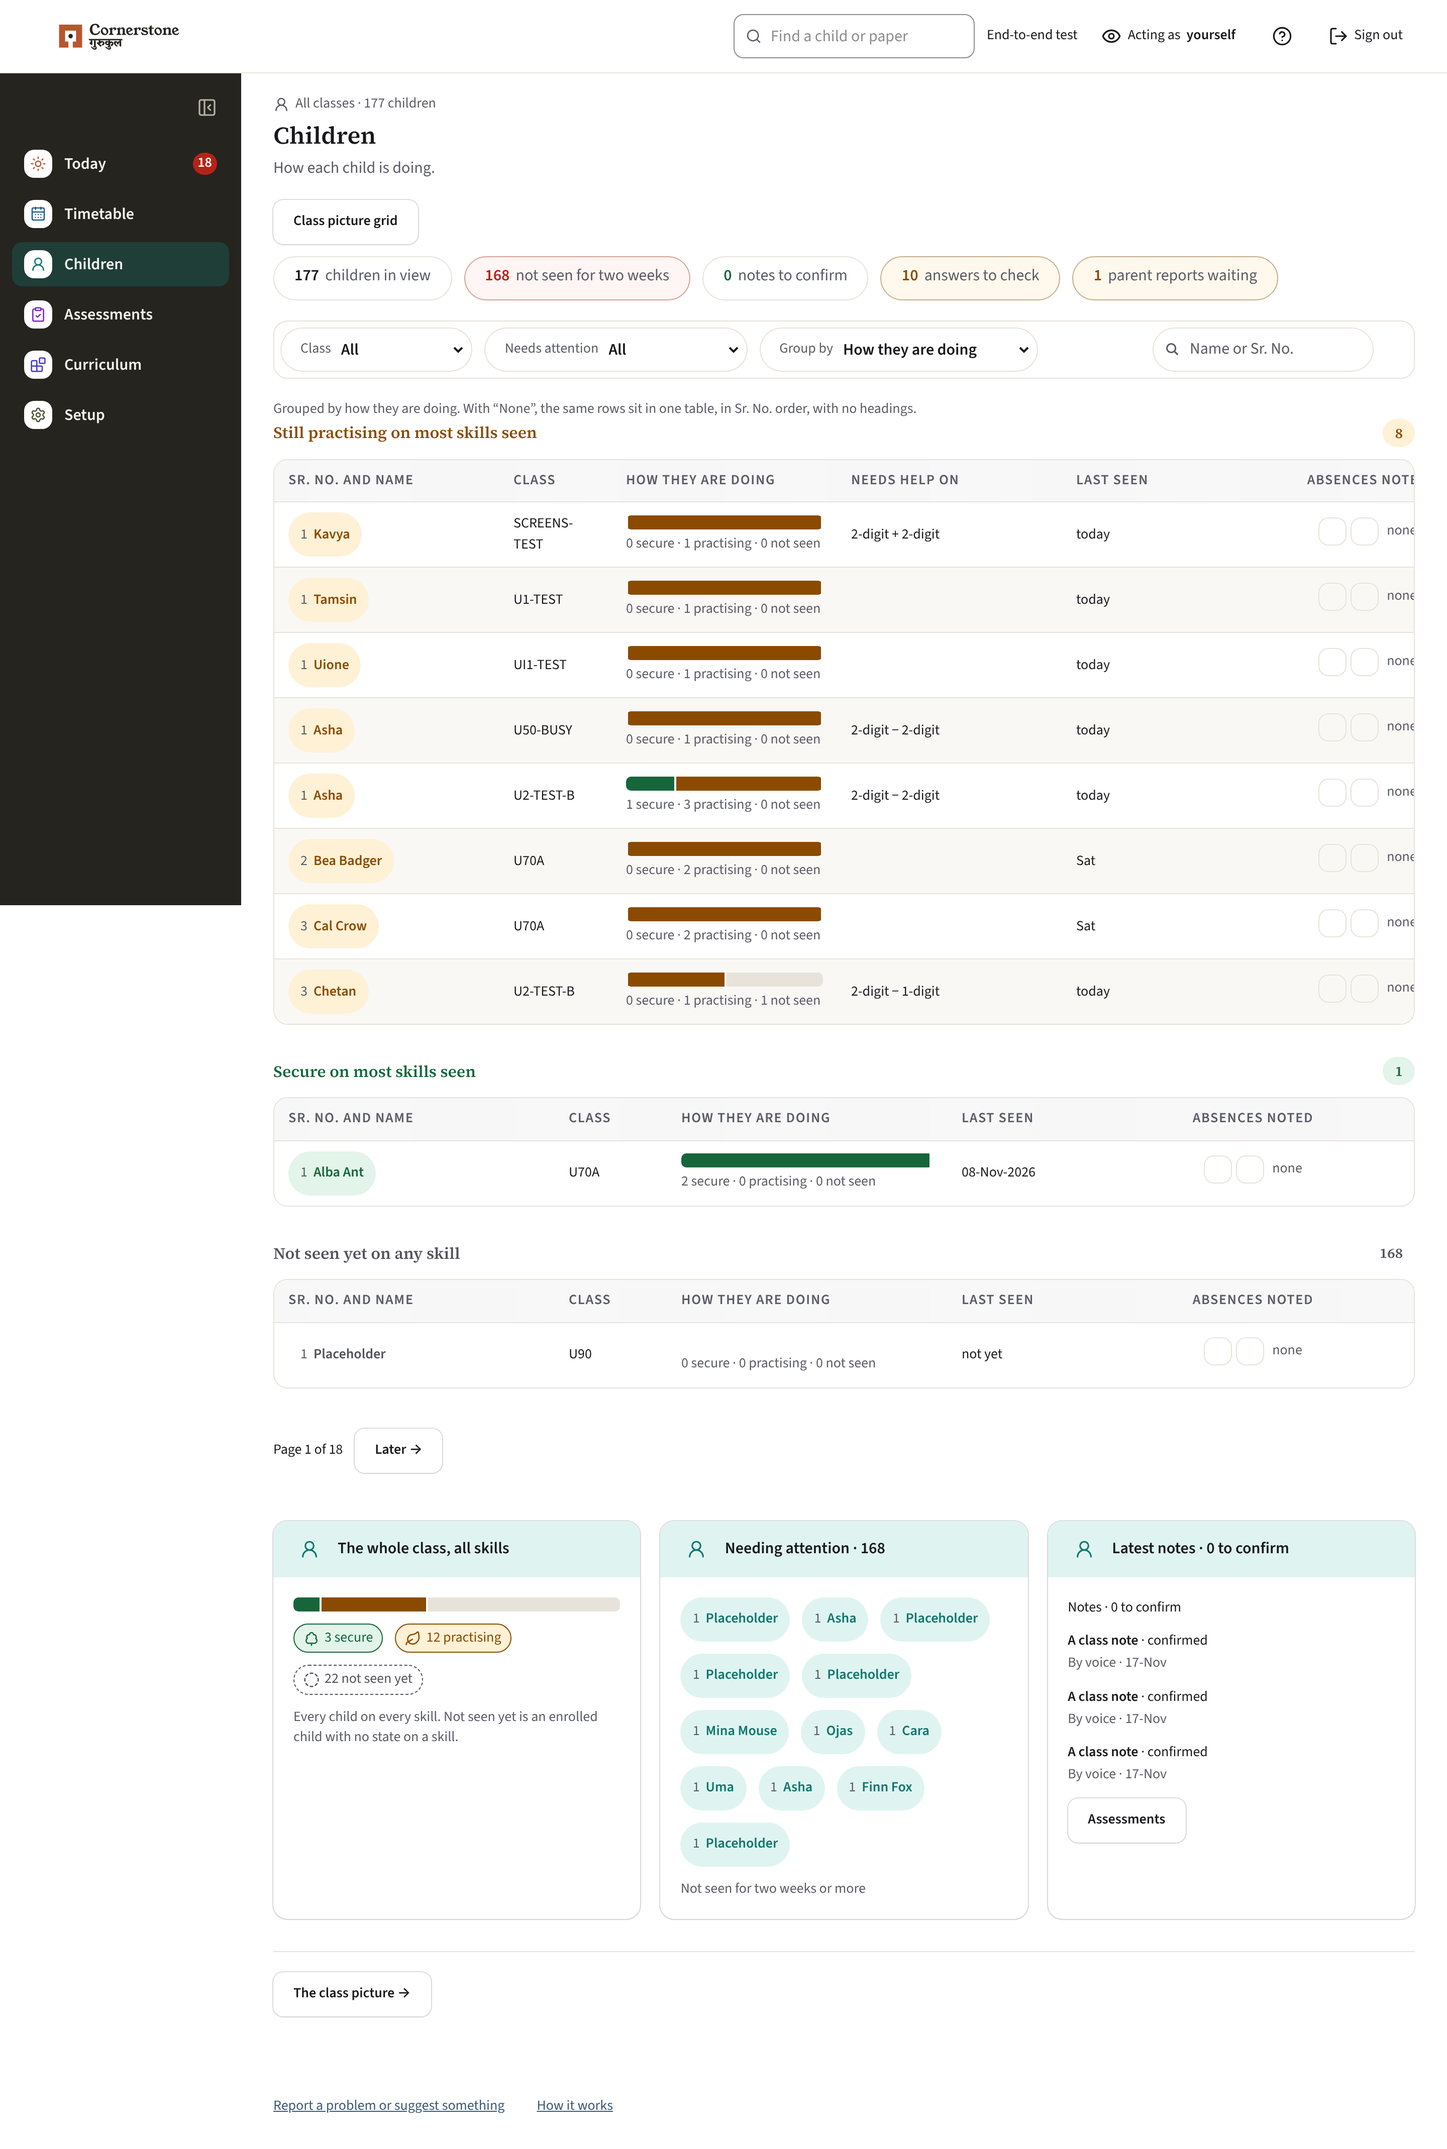
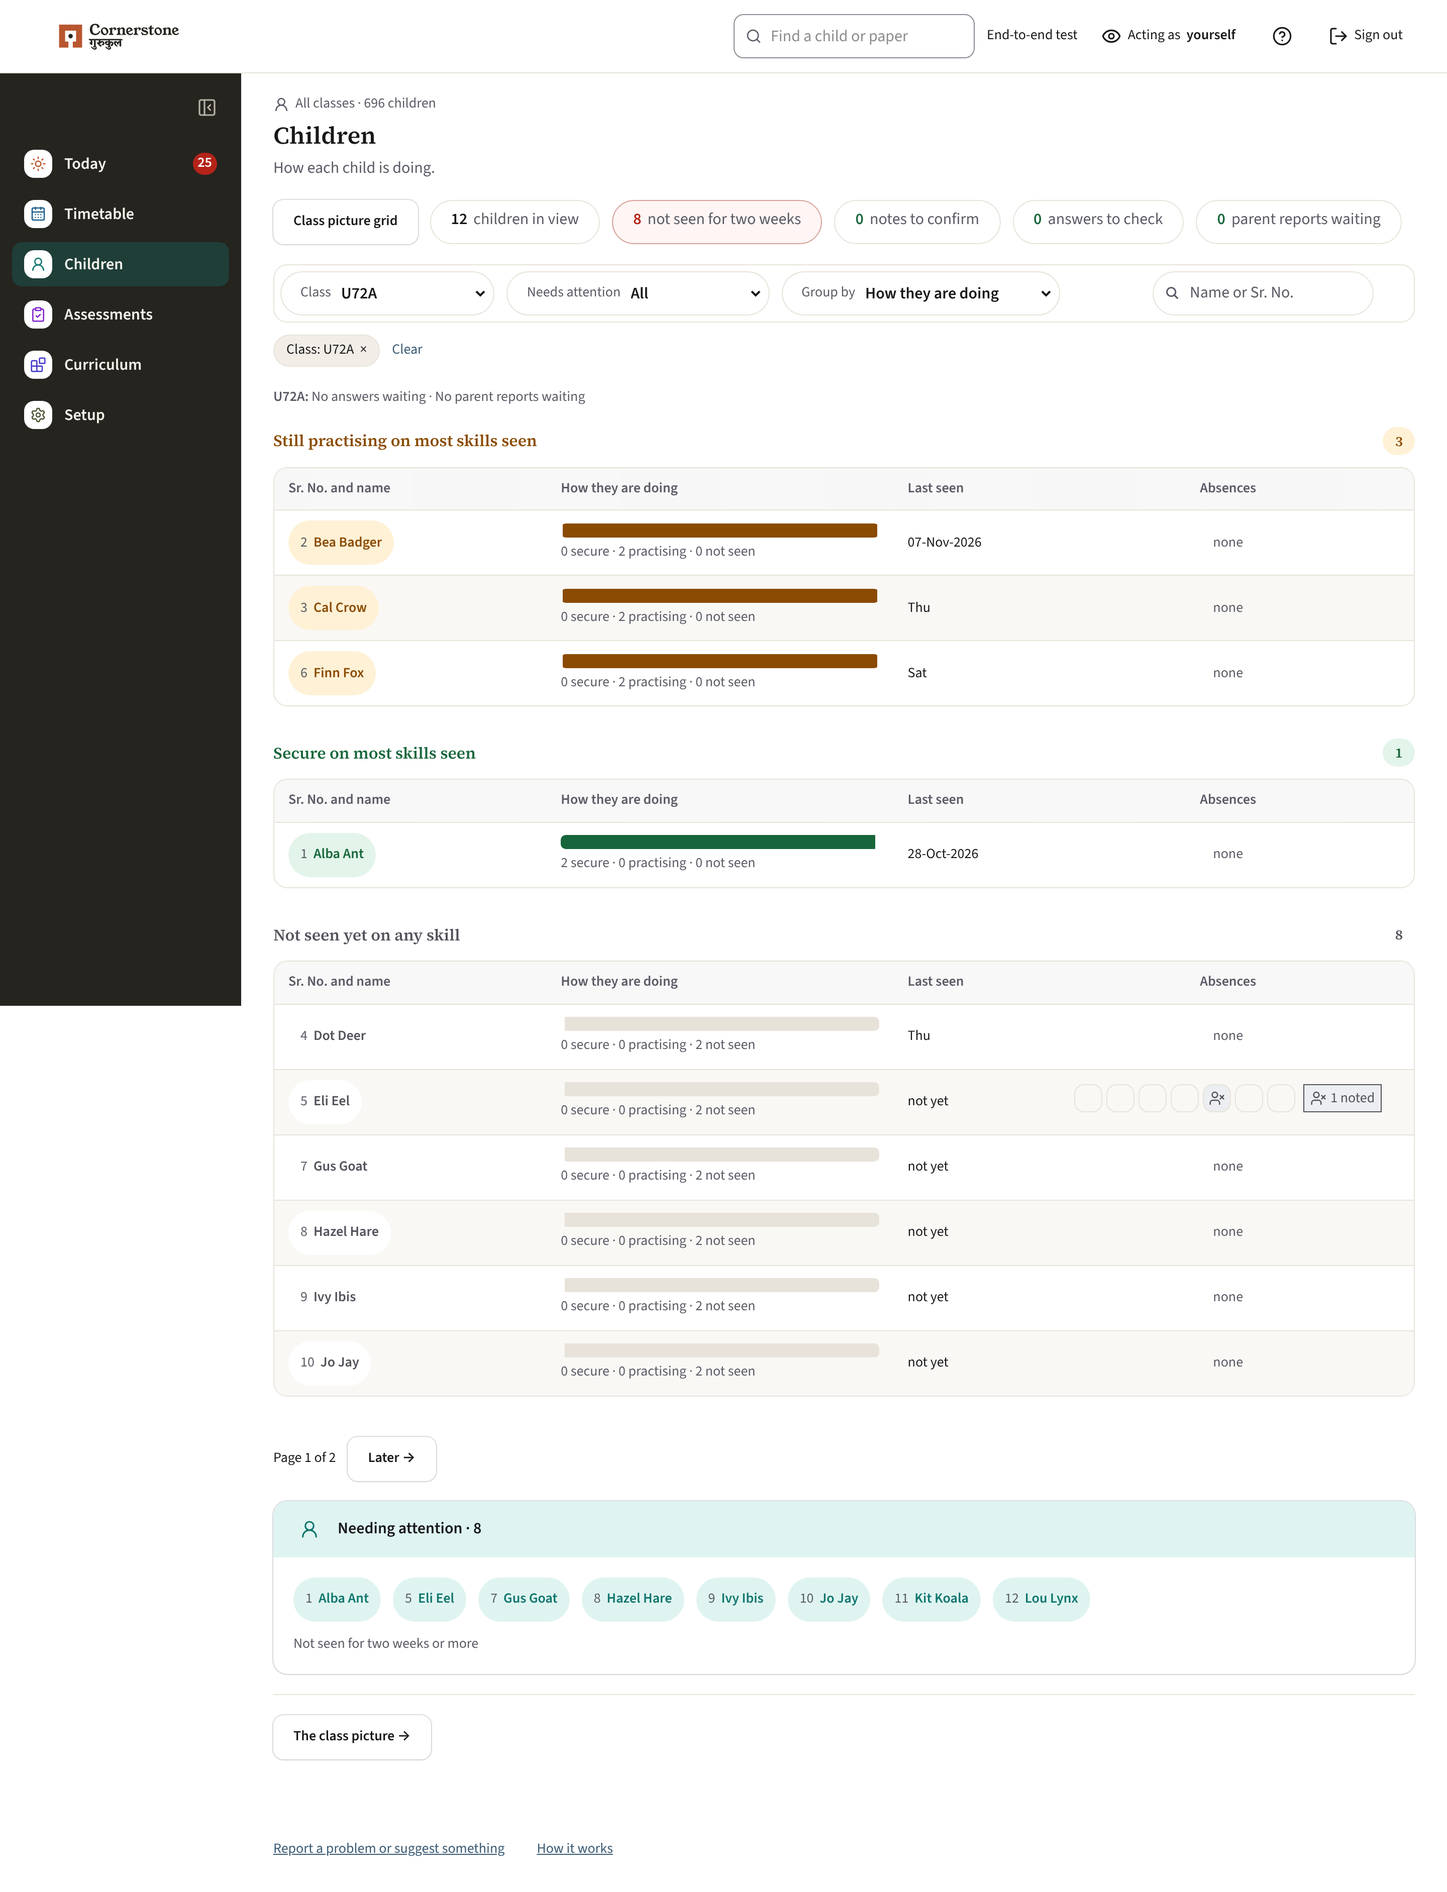
CP-65 F: Children reads the attendance register for Last seen and Absences, one set of column widths; Assessments lanes even; redirects for the folded pages; screenshots
Claude-Session: https://claude.ai/code/session_01KEBF29RtGvE2MZTynqvF6x

diff --git a/apps/web/tests/u95-to-approve.spec.ts b/apps/web/tests/u95-to-approve.spec.ts
@@ -50,25 +50,25 @@ test.afterAll(async () => {
 });
 
 test("1 · Curriculum's Approval filter: to approve is the machine's, approved the sheet's", async ({ page }) => {
-  await page.goto("/setup/curriculum?q=U94&approval=toApprove");
+  await page.goto("/setup/curriculum?view=appendix&q=U94&approval=toApprove");
   await expect(page.locator(`${LIST} tr[data-row="${MACHINE}"]`)).toBeVisible();
   await expect(page.locator(`${LIST} tr[data-row="${SHEET}"]`)).toHaveCount(0);
   await expect(page.locator(`${LIST} tr[data-row="${MACHINE}"]`)).toContainText("to approve");
-  await page.goto("/setup/curriculum?q=U94&approval=approved");
+  await page.goto("/setup/curriculum?view=appendix&q=U94&approval=approved");
   await expect(page.locator(`${LIST} tr[data-row="${SHEET}"]`)).toBeVisible();
   await expect(page.locator(`${LIST} tr[data-row="${MACHINE}"]`)).toHaveCount(0);
   await expect(page.locator('select[name="approval"] option')).toHaveText(["Approved or not", "To approve", "Approved"]);
 });
 
 test("2 · Approve on the panel makes the machine's links a person's, and the activity reads approved", async ({ page }) => {
-  await page.goto(`/setup/curriculum?q=U94&open=activity:${MACHINE}`);
+  await page.goto(`/setup/curriculum?view=appendix&q=U94&open=activity:${MACHINE}`);
   await page.locator("[data-approve]").click();
   await expect(page.locator("[data-approve]")).toHaveCount(0); // nothing of it is the machine's now
   const left = await sql<{ n: number }[]>`
     select (select count(*) from activity_skill where activity_code = ${MACHINE} and source = 'machine')
          + (select count(*) from activity_objective where activity_code = ${MACHINE} and source = 'machine')::int as n`;
   expect(Number(left[0].n)).toBe(0);
-  await page.goto("/setup/curriculum?q=U94&approval=approved");
+  await page.goto("/setup/curriculum?view=appendix&q=U94&approval=approved");
   await expect(page.locator(`${LIST} tr[data-row="${MACHINE}"]`)).toBeVisible();
 });
 
@@ -105,9 +105,9 @@ async function lessonsListed(page: import("@playwright/test").Page) {
 test("5 · CP-52: an activity the machine made for a planner line reads to approve before anything of it is drafted", async ({ page }) => {
   await sql`update activity set source_file = 'machine:plan_author' where code = ${SHEET}`;
   try {
-    await page.goto("/setup/curriculum?q=U94&approval=toApprove");
+    await page.goto("/setup/curriculum?view=appendix&q=U94&approval=toApprove");
     await expect(page.locator(`${LIST} tr[data-row="${SHEET}"]`)).toBeVisible();
-    await page.goto(`/setup/curriculum?q=U94&open=activity:${SHEET}`);
+    await page.goto(`/setup/curriculum?view=appendix&q=U94&open=activity:${SHEET}`);
     await page.locator("[data-approve]").click();
     await expect(page.locator("[data-approve]")).toHaveCount(0);
     const [a] = await sql<{ f: string }[]>`select source_file as f from activity where code = ${SHEET}`;

diff --git a/apps/web/lib/children-reads.ts b/apps/web/lib/children-reads.ts
@@ -64,14 +64,13 @@ export async function childrenTable(me: Me): Promise<Table> {
     select r.class_id, r.on_date::text as date,
            exists (select 1 from session s where s.school_class_id = r.class_id and s.school_day_id = r.id and s.state = 'done') as lesson
     from ranked r where r.n <= ${STRIP_DAYS} order by r.class_id, r.on_date`;
-  const absent = await sql<{ child_id: string; date: string }[]>`
-    select o.child_id, (o.observed_at at time zone ${zone})::date::text as date
-    from activity_observation o
-    where o.child_id = any(${ids}::uuid[]) and o.outcome = 'absent'
-      and not exists (select 1 from activity_observation c where c.supersedes = o.id)`;
+  // the attendance rows (CP-42, the school's own register) are the one source of both "last seen" and "absence noted": a child is
+  // last seen on the latest day marked present, and an absence is a day marked absent or on leave, so the two never disagree
+  const register = await sql<{ child_id: string; date: string; status: string }[]>`
+    select a.child_id, a.on_date::text as date, a.status from attendance a where a.child_id = any(${ids}::uuid[]) and a.on_date <= ${today}::date`;
 
   const daysOf = groupBy(days, (d) => d.class_id);
-  const absentOf = groupBy(absent, (a) => a.child_id);
+  const registerOf = groupBy(register, (a) => a.child_id);
   const statesOf = groupBy(states, (s) => s.child_id);
   // a class is read on its observed rows if any child of it has them, else its written rows; its skills are those anyone was seen on
   const kindOf = new Map<string, string>();
@@ -93,7 +92,8 @@ export async function childrenTable(me: Me): Promise<Table> {
   const old = new Map((await childTable(me.email, null, await workScope(me))).map((r) => [r.id, r]));
   const rows: Row[] = kids.map((k) => {
     const mine = seen(k);
-    const last = mine.map((s) => s.last_seen).filter((d): d is string => d !== null).sort().pop() ?? null;
+    const held = registerOf.get(k.id) ?? [];
+    const last = held.filter((a) => a.status === "present").map((a) => a.date).sort().pop() ?? null;
     return {
       childId: k.id,
       roll: k.roll_no,
@@ -107,7 +107,7 @@ export async function childrenTable(me: Me): Promise<Table> {
       lastSeen: last,
       waiting: waiting.has(k.class_id) ? (waiting.get(k.class_id)!.get(k.id) ?? 0) : null,
       helpOn: old.get(k.id)?.help?.name ?? null,
-      strip: stripOf(daysOf.get(k.class_id) ?? [], new Set((absentOf.get(k.id) ?? []).map((a) => a.date))),
+      strip: stripOf(daysOf.get(k.class_id) ?? [], new Set(held.filter((a) => a.status !== "present").map((a) => a.date))),
     };
   });
   const classes = [...new Map(kids.map((k) => [k.class_id, k.section])).entries()].map(([id, section]) => ({ id, section })).sort((a, b) => a.section.localeCompare(b.section, "en", { numeric: true }));

diff --git a/apps/web/components/children/children-table.tsx b/apps/web/components/children/children-table.tsx
@@ -61,14 +61,15 @@ export function Strip({ r }: { r: Row }) {
 function columns(showClass: boolean, today: string): Column<Row>[] {
   const name = (r: Row) => ({ classId: r.classId, roll: r.roll, name: r.name, section: r.section, counts: r.counts });
   return [
-    { key: "who", label: "Sr. No. and name", keep: true, value: (r) => `${r.roll} ${r.name}`, cell: (r) => <PeekChip child={name(r)} /> },
-    ...(showClass ? [{ key: "class", label: "Class", keep: true, width: "7rem", value: (r: Row) => r.section } satisfies Column<Row>] : []),
-    { key: "doing", label: "How they are doing", keep: true, value: (r) => countWords(r.counts), cell: (r) => <Bar c={r.counts} /> },
-    { key: "help", label: "Needs help on", value: (r) => r.helpOn, cell: (r) => (r.helpOn ? <span>{r.helpOn}</span> : null) },
-    { key: "seen", label: "Last seen", keep: true, width: "9rem", value: (r) => lastSeenWords(r.lastSeen, today) },
-    { key: "waiting", label: "Notes waiting", status: true, value: (r) => r.waiting, cell: (r) => <Waiting n={r.waiting} /> },
+    { key: "who", label: "Sr. No. and name", keep: true, width: "11rem", value: (r) => `${r.roll} ${r.name}`, cell: (r) => <PeekChip child={name(r)} /> },
+    ...(showClass ? [{ key: "class", label: "Class", keep: true, width: "6rem", value: (r: Row) => r.section } satisfies Column<Row>] : []),
+    { key: "doing", label: "How they are doing", keep: true, width: "14rem", value: (r) => countWords(r.counts), cell: (r) => <Bar c={r.counts} /> },
+    { key: "help", label: "Needs help on", width: "11rem", value: (r) => r.helpOn, cell: (r) => (r.helpOn ? <span>{r.helpOn}</span> : null) },
+    { key: "waiting", label: "Notes waiting", status: true, width: "8rem", value: (r) => r.waiting, cell: (r) => <Waiting n={r.waiting} /> },
+    // last seen and absences noted both come from the attendance rows, and sit side by side so they are read as one
+    { key: "seen", label: "Last seen", keep: true, width: "6rem", value: (r) => lastSeenWords(r.lastSeen, today) },
     // the strip is seven 28 px days and a chip: a fixed width, or an equal share of the free width cuts it (14 Nov 2026)
-    { key: "absences", label: "Absences", keep: true, status: true, width: "16rem", value: (r) => noted(r.strip), cell: (r) => <Strip r={r} /> },
+    { key: "absences", label: "Absences", keep: true, status: true, width: "15rem", value: (r) => noted(r.strip), cell: (r) => <Strip r={r} /> },
   ];
 }
 

diff --git a/apps/web/tests/u72-children.spec.ts b/apps/web/tests/u72-children.spec.ts
@@ -80,6 +80,20 @@ test("5 · absences noted: a grey cell with its word, a day with no lesson blank
   await expect(page.getByText("1 noted")).toBeVisible();
 });
 
+test("5b · Last seen and Absences noted both read the attendance register, so they agree", async ({ page }) => {
+  await page.goto(`/children?cls=${classA}`);
+  const row = (n: number) => tableOf(page).locator("tr", { has: page.getByRole("button", { name: new RegExp(NAMES_A[n]) }) });
+  // marked absent two days ago and never present: not seen yet, one absence noted
+  await expect(row(4)).toContainText("not yet");
+  await expect(row(4)).toContainText("1 noted");
+  // marked present on the day of each visit: a date, and no absence beside it
+  await expect(row(0)).not.toContainText("not yet");
+  await expect(row(0)).toContainText("none");
+  // the columns of every group are the same widths, so the groups line up
+  const widths = await page.locator("table colgroup").evaluateAll((gs) => gs.map((g) => [...g.querySelectorAll("col")].map((c) => (c as HTMLElement).style.width).join(",")));
+  expect(new Set(widths).size).toBe(1);
+});
+
 test("6 · a name opens the peek, 'Open the child' lands on the child, the toggle goes to the picture and back", async ({ page }) => {
   await page.goto(`/children?cls=${classA}`);
   await tableOf(page).getByRole("button", { name: new RegExp(NAMES_A[0]) }).click();
@@ -252,4 +266,17 @@ test("with the educator switch off the three screens say so, show no child, and 
   } finally {
     await voiceSwitch(sql, true);
   }
+});
+
+// screenshots for the reviewer, written only when CP65_SHOTS names a folder (never part of CI): 1440 px at 2x
+test.describe("screenshots", () => {
+  test.skip(!process.env.CP65_SHOTS, "set CP65_SHOTS=<folder> to write them");
+  test.use({ viewport: { width: 1440, height: 1000 }, deviceScaleFactor: 2 });
+  test("children and the assessments board", async ({ page }) => {
+    const out = process.env.CP65_SHOTS!;
+    await page.goto(`/children?cls=${classA}`);
+    await page.screenshot({ path: `${out}/children-1440.png`, fullPage: true });
+    await page.goto("/children/assessments");
+    await page.screenshot({ path: `${out}/assessments-1440.png`, fullPage: true });
+  });
 });

diff --git a/apps/web/components/blocks.css b/apps/web/components/blocks.css
@@ -223,7 +223,7 @@
   .b-count { min-width: 28px; height: 28px; padding: 0 var(--space-2); border-radius: var(--radius-pill); background: var(--cb, var(--surface)); color: var(--c, var(--ink)); font-size: var(--text-label); font-weight: 600; line-height: 28px; text-align: center; margin-left: auto; }
   /* The board (13 Nov 2026: "cards cut, text hard to read, the bold too much"): lanes share the page's width; each card is one white
      box holding its link (kind tile, a title of at most two lines, one muted line, its state) and, at its foot, its one action. */
-  .b-kanban { display: grid; grid-template-columns: repeat(var(--lanes, 3), minmax(240px, 1fr)); gap: var(--space-3); align-items: start; overflow-x: auto; padding-bottom: var(--space-1); }
+  .b-kanban { display: grid; grid-template-columns: repeat(var(--lanes, 3), minmax(240px, 1fr)); gap: var(--space-3); align-items: stretch; overflow-x: auto; padding-bottom: var(--space-1); }
   @media (min-width: 1100px) { .b-kanban { grid-template-columns: repeat(var(--lanes), minmax(0, 1fr)); } }
   .b-lane { display: grid; gap: var(--space-2); align-content: start; min-width: 0; padding: var(--space-2); border-radius: var(--radius-card); background: var(--surface); }
   .b-lane-h { display: flex; align-items: center; gap: var(--space-1); margin: 0; padding: var(--space-1) var(--space-1) var(--space-1) var(--space-2); font-family: var(--font-sans); font-size: var(--text-label); font-weight: 600; color: var(--c, var(--ink)); }

diff --git a/apps/web/next.config.ts b/apps/web/next.config.ts
@@ -28,6 +28,11 @@ const nextConfig: NextConfig = {
     { source: "/timetable/draft", destination: "/timetable?view=fortnight&tab=draft&show=draft", permanent: true },
     // Time by subject is a view of the one timetable page (CP-65)
     { source: "/timetable/time", destination: "/timetable?view=time", permanent: true },
+    // Skills to approve and Objectives are parts of the one Curriculum page (CP-65); the choices they carried are passed on
+    { source: "/setup/skills/approve", destination: "/setup/curriculum?approve=1", permanent: true },
+    { source: "/setup/curriculum/objectives", has: [{ type: "query", key: "origin" }], destination: "/setup/curriculum?view=appendix&part=objectives", permanent: true },
+    { source: "/setup/curriculum/objectives", has: [{ type: "query", key: "topic" }], destination: "/setup/curriculum", permanent: true },
+    { source: "/setup/curriculum/objectives", destination: "/setup/curriculum?view=appendix&part=objectives", permanent: true },
     { source: "/setup/needs-doing", destination: "/today", permanent: true },
   ],
   outputFileTracingRoot: repo,

diff --git a/apps/web/tests/u104-curriculum-objectives.spec.ts b/apps/web/tests/u104-curriculum-objectives.spec.ts
@@ -180,3 +180,16 @@ test("an educator sees the list but no Confirm: confirming is the coordinators'"
   await expect(page.locator("[data-confirm]")).toHaveCount(0);
   await c.close();
 });
+
+// screenshots for the reviewer, written only when CP65_SHOTS names a folder (never part of CI): 1440 px at 2x
+test.describe("screenshots", () => {
+  test.skip(!process.env.CP65_SHOTS, "set CP65_SHOTS=<folder> to write them");
+  test.use({ viewport: { width: 1440, height: 1000 }, deviceScaleFactor: 2 });
+  test("curriculum: the flow with an objective open, and the appendix", async ({ page }) => {
+    const out = process.env.CP65_SHOTS!;
+    await page.goto(`${FLOW}&objective=${code(1)}`);
+    await page.screenshot({ path: `${out}/curriculum-flow-1440.png`, fullPage: true });
+    await page.goto("/setup/curriculum?view=appendix&part=objectives&topic=" + TOPIC);
+    await page.screenshot({ path: `${out}/curriculum-appendix-1440.png`, fullPage: true });
+  });
+});

diff --git a/apps/web/tests/children-world.ts b/apps/web/tests/children-world.ts
@@ -44,6 +44,9 @@ export async function childrenWorld(sql: postgres.Sql) {
           values (${tenant}, ${child}, ${s.code}, 'educator', ${at}, ${staff}, 'observed', ${mark}, ${staff}, 'class', 'u72 test', ${o.id})`;
       }
     }
+    // the register is the source of "last seen" and of the absences noted: the day of the visit, marked as it went
+    await sql`insert into attendance (tenant_id, child_id, on_date, program, status)
+      values (${tenant}, ${child}, ${at.toISOString().slice(0, 10)}, 'school', ${outcome === "absent" ? "absent" : "present"}) on conflict (tenant_id, child_id, on_date) do nothing`;
     await sql`select rebuild_child_observed_state(${child})`;
   }
   const [{ n }] = await sql<{ n: number }[]>`select count(*)::int as n from activity_observation where class_id = ${classA}`;

diff --git a/apps/web/app/(app)/setup/curriculum/flow.tsx b/apps/web/app/(app)/setup/curriculum/flow.tsx
@@ -51,7 +51,7 @@ export async function Flow({ pick, grades }: { pick: Pick; grades: { code: strin
             {rows.map((r) => {
               const on = objective?.code === r.code;
               return (
-                <li key={r.code} data-objective={r.code} className="b-card">
+                <li key={r.code} data-objective={r.code} className="b-card grid gap-[var(--space-1)] p-[var(--space-3)]">
                   <Link href={at({ grade, subject, topic, objective: on ? undefined : r.code })} scroll={false} aria-current={on || undefined} data-objective-row className="flex flex-wrap items-center gap-[var(--space-2)]">
                     <span className="font-semibold">{r.title}</span>
                     <MachineIf origin={r.origins} />
